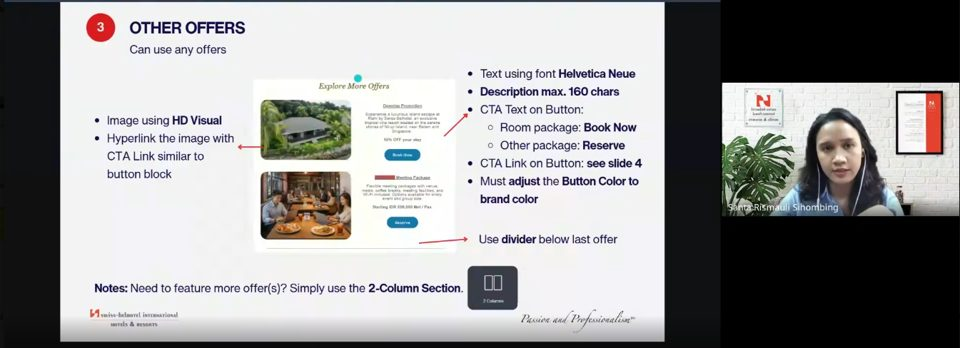
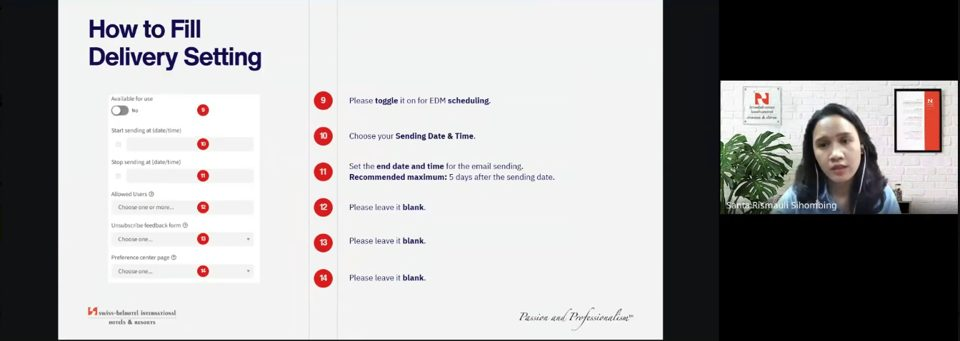
Use the Delivery Setting slide as the training recording cover
Claude-Session: https://claude.ai/code/session_014CgXvGgmCgXDUwKqoBJ4Lf

diff --git a/index.html b/index.html
@@ -350,7 +350,7 @@ tbody tr.click{cursor:pointer} tbody tr.click:hover td{background:var(--soft)}
         <img src="/img/guidelines-cover.jpg" alt="EDM Template 2026 guideline cover" loading="lazy" width="960" height="541">
         <span>EDM Guidelines 2026 <em>PDF ↗</em></span></a>
       <a class="guide-card" href="https://drive.google.com/file/d/1I4m_d7U1t3h__80e_yMbGBa3Qyg1UrbW/view?usp=sharing" target="_blank" rel="noopener">
-        <img class="dark" src="/img/training-cover.jpg" alt="EDM Guidelines 2026 training session" loading="lazy" width="960" height="348">
+        <img class="dark" src="/img/training-cover.jpg?v=2" alt="EDM Guidelines 2026 training session" loading="lazy" width="960" height="341">
         <span>EDM Guidelines 2026 Training Session Recording <em>Video ↗</em></span></a>
     </div>
     <div class="guide">
